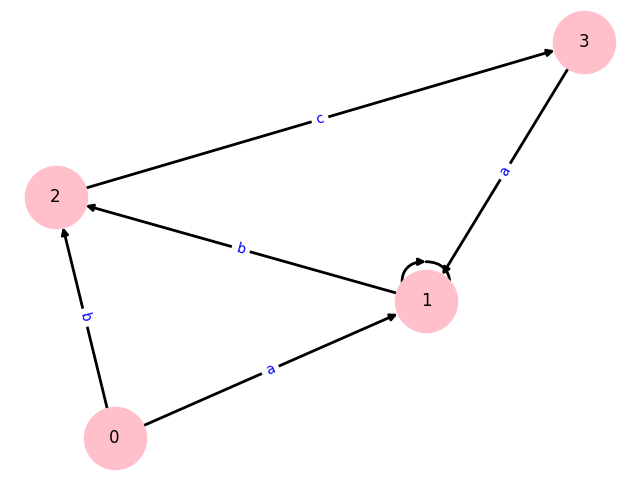
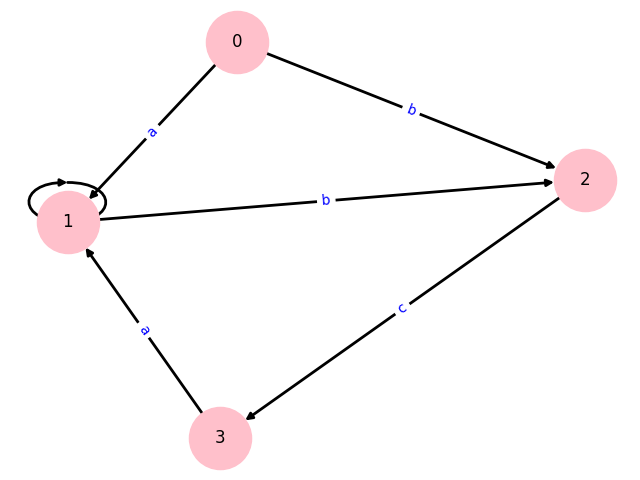
feat: create report

diff --git a/Main/Program.cs b/Main/Program.cs
@@ -14,13 +14,13 @@ public static class Program {
 			new(0, "b", 2)
 		});
 
-	public static readonly List<char> Aphabet     = new(new[] { 'a', 'b', 'c' });
+	public static readonly List<char> Alphabet     = new(new[] { 'a', 'b', 'c' });
 	public const           int        NrOfStates  = 4;
 	public static readonly List<int>  FinalStates = new(new[] { 3 });
 
 	public static void Main() {
 		Grammar grammar = new(
-			Aphabet,
+			Alphabet,
 			NrOfStates,
 			FinalStates,
 			Transitions

diff --git a/Tests/UnitTest.cs b/Tests/UnitTest.cs
@@ -6,7 +6,7 @@ namespace Tests;
 
 public static class UnitTest {
 	private static readonly Grammar Grammar = new(
-		Program.Aphabet, 
+		Program.Alphabet, 
 		Program.NrOfStates, 
 		Program.FinalStates,
 		Program.Transitions

diff --git a/report.md b/report.md
@@ -1,187 +1,216 @@
-# Intro to formal languages. Regular grammars. Finite Automata.
+# Determinism in Finite Automata. Conversion from NDFA 2 DFA. Chomsky Hierarchy.
 
 ### Course: Formal Languages & Finite Automata
+
 ### Author: Dobrojan Alexandru (FAF-212)
 
 ----
 
 ## Theory
-This laboratory is meant to teach me the basics of how formal languages work and how they can be interpreted in code.\
-A formal language (in software engineering context) consists of an alphabet, or a set of allowed symbols, grammar, or a set of rules how to
-composite symbols of alphabet in a meaningful and understandable by a machine way and vocabulary that is a set of valid (allowed) words.\
-Constructing words consists of starting from an initial state (or rule) and using a transition defined by Productions part of grammar to get to
-the next alphabet (terminal) character or one or more syntactic variables (non-terminal symbols). The word is done when no non-terminal symbols
-remain in our string.\
-In order to find matching patterns of a formal language and check if a word or set of words belong to that language, we can use such concept as
-Finite Automata, or Finite Automaton (singular). A Finite Automaton is a structure with members similar to a formal language that serves one reason - 
-to validate an input string. For that, Automaton constructs a graph of states that are unidirectional or bidirectional coupled by transitions,
-transitions are the way of how to represent Grammar productions in graph, and iterates over that graph if the pattern matches. And if some character
-cannot be transitioned by that graph, then the word does not belong to that formal language.
 
+In this laboratory I have to apply my understanding of Non-deterministic Finite Automata and classification of grammars.
+The problem of NFAs is that a computer
+cannot solve explicitly it without some sort of processing of the grammar, I.e. it can get stuck into infinite loops or
+generate wrong output.\
+In order to solve this issue, I have to determine if the given grammar will lead to a non-deterministic Finite Automaton
+and process it so it will become
+a deterministic one. Determining a basic NFA is easy since we can basically check if we have 2 or more transitions with
+the same value but different states,
+and convert these transitions so they will lead to next states and become different.\
+Chomsky classification is a hierarchy of formal grammars used to describe the structure of languages. It was introduced
+by linguist Noam Chomsky in the 1950s and
+categorizes grammars into four types, from the simplest to the most complex: Type-3 (Regular), Type-2 (Context-Free),
+Type-1 (Context-Sensitive),
+and Type-0 (Unrestricted). Each type has a set of rules and restrictions that define the class of languages it can
+generate.
 
 ## Objectives:
 
-1. Understand what a language is and what it needs to have in order to be considered a formal one.
+1. Understand what an automaton is and what it can be used for.
 
-2. Provide the initial setup for the evolving project that you will work on during this semester. I said project because usually at lab works, I encourage/impose students to treat all the labs like stages of development of a whole project. Basically you need to do the following:
+2. Continuing the work in the same repository and the same project, the following need to be added:
+   a. Provide a function in your grammar type/class that could classify the grammar based on Chomsky hierarchy.
 
-   a. Create a local && remote repository of a VCS hosting service (let us all use Github to avoid unnecessary headaches);
+   b. For this you can use the variant from the previous lab.
 
-   b. Choose a programming language, and my suggestion would be to choose one that supports all the main paradigms;
+3. According to your variant number (by universal convention it is register ID), get the finite automaton definition and
+   do the following tasks:
 
-   c. Create a separate folder where you will be keeping the report. This semester I wish I won't see reports alongside source code files, fingers crossed;
+   a. Implement conversion of a finite automaton to a regular grammar.
 
-3. According to your variant number (by universal convention it is register ID), get the grammar definition and do the following tasks:
+   b. Determine whether your FA is deterministic or non-deterministic.
 
-   a. Implement a type/class for your grammar;
+   c. Implement some functionality that would convert an NDFA to a DFA.
 
-   b. Add one function that would generate 5 valid strings from the language expressed by your given grammar;
+   d. Represent the finite automaton graphically (Optional, and can be considered as a __*bonus point*__):
 
-   c. Implement some functionality that would convert and object of type Grammar to one of type Finite Automaton;
+    - You can use external libraries, tools or APIs to generate the figures/diagrams.
 
-   d. For the Finite Automaton, please add a method that checks if an input string can be obtained via the state transition from it;
-
+    - Your program needs to gather and send the data about the automaton and the lib/tool/API return the visual
+      representation.
 
 ## Implementation description
 
-My implementation treats Grammar and Finite Automaton as two data structures that can be mutually converted.\
-Grammar is closer to the mathematical representation by defining its 4 main components - the set of terminal characters, non-terminal characters,
-set of Productions and the starting character. The constructor and converting to Finite Automaton is not important to us.
-GenerateString method would randomly generate a string of the provided language. What is does iterate through each character and apply 
-a random transformation (or one in case there are no more matching) defined in Productions if it is non-terminal. If it has no non-terminal
-symbols, then the string is returned.
+In this laboratory I overhauled the code from previous laboratory so I have a stronger foundation to work with. Now I
+represent each state as a simple object knowing its
+transitions to next states and transitions are represented as (q_n, value) -> q_m, or in my case From: int, To: int,
+Value: string. Verification of NFA is did just
+as mentioned in the theory, checking if a state has 2 or more transitions with the same value but to different states
+and used a heuristic algorithm to transform
+each transition also as mentioned in the theory.
 
-Finite Automaton diagram:\
-![diagram.png](diagram.png)
+Here is the functions that checks if the Automaton is Non-Deterministic and transforms it in-place:
 
-```c#
-public string GenerateString() {
-		var    rand          = new Random();
-		string str           = _S;
-		bool   shouldIterate = true;
+```cs
+ private void _convertToDeterministic() {
+     foreach (State state in _states) {
+         var transitionsToAdd    = new List<KeyValuePair<string, State>>();
+         var transitionsToRemove = new List<KeyValuePair<string, State>>();
 
-		while (shouldIterate) {
-			shouldIterate = false;
+         foreach (var transition1 in state.Transitions) {
+             foreach (var transition2 in state.Transitions) {
+                 if (Equals(transition1, transition2)) {
+                     continue;
+                 }
 
-			foreach (char character in str) {
-				if (_isNonTerminal(character.ToString()) || character == 'S') {
-					shouldIterate = true;
+                 if (transition1.Key == transition2.Key) {
+                     var t = transition2.Value == state ? transition1 : transition2;
+                     foreach (var transition in t.Value.Transitions) {
+                         transitionsToAdd.Add(
+                             new KeyValuePair<string, State>(t.Key + transition.Key, transition.Value)
+                         );
+                     }
 
-					var matches = new List<string>();
+                     transitionsToRemove.Add(t);
+                 }
+             }
+         }
 
-					foreach (var ls in _P) {
-						if (ls[0].Contains(character.ToString())) {
-							matches.Add(ls[1]);
-						}
-					}
+         state.Transitions.AddRange(transitionsToAdd);
 
-					str = str.Replace(
-						character.ToString(),
-						matches[rand.Next(0, matches.Count)]
-					);
-				}
-			}
-		}
-
-		return str;
-	}
+         foreach (var transition in transitionsToRemove) {
+             state.Transitions.Remove(transition);
+         }
+     }
+ }
 ```
-And here is how it used in program
-```c#
-namespace Main;
 
-public static class Program {
-	public static readonly string[] Vn = { "S", "B", "L" };
-	public static readonly string[] Vt = { "a", "b", "c" };
+Here is how I check if string belongs to language:
 
-	public static readonly string[,] P = {
-		{ "S", "aB" },
-		{ "B", "bB" },
-		{ "B", "cL" },
-		{ "L", "cL" },
-		{ "L", "aS" },
-		{ "L", "b" }
-	};
-
-	public static void Main() {
-		Grammar grammar = new(Vn, Vt, P, "S");
-
-		for (int i = 0; i < 20; i++) {
-			Console.WriteLine(grammar.GenerateString());
-		}
-	}
+```cs
+public bool StringBelongToLanguage(string str) {
+   State currentState = _states[0];
+   var   position     = 0;
+   
+   while (position < str.Length) {
+      var newStateFound = false;
+   
+      foreach (var transition in currentState.Transitions) {
+          if (!str[position..].StartsWith(transition.Key)) {
+              continue;
+          }
+   
+          currentState  =  transition.Value;
+          position      += transition.Key.Length;
+          newStateFound =  true;
+          break;
+      }
+   
+      if (!newStateFound) {
+          return false;
+      }
+   }
+   
+   return _finalStates.Contains(currentState);
 }
 ```
-**Result:**\
-![20-strings.png](20-strings.png)
 
-Finite Automaton is similar to how it was described in theory. It consists of a set of states (each state is an instance of State class to make it
-easier to construct graph and iterate it, they can be represented as strings or numbers also), alphabet (terminal symbols), non-terminal symbols and
-the state names (again, not necessary but they'll make our life easier). At constructing time we make the states list that will represent our graph,
-each state knows its previous and next states and its transition and also have a type - start, intermediate or final.
-```c#
-public class FiniteAutomaton {
-	private class State {
-		public enum StateType {
-			Start,
-			Intermediate,
-			Final
-		}
+Here I draw the diagram using a python program that I wrote and invoked it from the Main method of my C# program
 
-		public List<string> Transitions { get; init; } = new();
-		public char         Key         { get; init; }
-		public StateType    Type        { get; init; }
-	}
+```csharp
+// Draws the automaton diagram using a python library and saves it to file
+ private static void DrawGraph() {
+     try {
+         var dataset = Transitions.Aggregate(
+             "",
+             (current, transition) => current + $" {transition.From} {transition.To} {transition.Value}"
+         );
 
-	private readonly List<char>   _alphabet;
-	private readonly List<string> _nonTerminals;
-	private readonly List<State>  _states;
-	private readonly List<char>   _stateNames;
+         ProcessStartInfo info = new() {
+             FileName               = "python3",
+             Arguments              = $"/home/warek/RiderProjects/FLFA-Labs/main.py {dataset}",
+             RedirectStandardOutput = false,
+             RedirectStandardError  = false,
+             RedirectStandardInput  = false,
+             UseShellExecute        = false,
+             CreateNoWindow         = true
+         };
 
-    ...
+         using Process process = new() {
+             StartInfo = info
+         };
+
+         process.Start();
+         process.WaitForExit();
+     }
+     catch (Exception exception) {
+         Console.WriteLine("Something went wrong:");
+         Console.WriteLine(exception.Message);
+     }
+ }
 ```
 
-The method StringBelongToLanguage iterates through the states graph searching if transitions can be made and if each characters belongs to alphabet
-(and each non-terminal to non-terminals also). It is constructing a string meant to store the current string that will have to be identical
-to input string in the end to match.
-```c#
-public bool StringBelongToLanguage(string str) {
-		var    currentState = _findState('S')!;
-		string s            = "";
+Python program invoked
 
-		foreach (char character in str) {
-			if (
-				(currentState.Type == State.StateType.Final && s.Length != str.Length)
-				|| !_isValidCharacter(character)
-			) {
-				return false;
-			}
+```python
+import sys
+import matplotlib.pyplot as plt
+import networkx as nx
 
-			currentState = _nextState(character, currentState);
+G = nx.DiGraph()
+dataset = []
+edge_labels = {}
 
-			if (currentState is null) {
-				return false;
-			}
+for i in range(1, len(sys.argv), 3):
+	dataset += [[sys.argv[i], sys.argv[i + 1], sys.argv[i + 2]]]
 
-			s += character;
-		}
+for data in dataset:
+	FROM = data[0]
+	TO = data[1]
+	VALUE = data[2]
 
-		return currentState.Type == State.StateType.Final;
-	}
+	edge_labels[(FROM, TO)] = VALUE
+	G.add_edge(FROM, TO, label=VALUE)
+
+nx.set_edge_attributes(G, {('A', 'B'): {'color': 'red'}})
+
+pos = nx.spring_layout(G)
+plt.figure()
+nx.draw(
+	G, pos, edge_color='black', width=2,
+	node_size=2000, node_color='pink', alpha=1,
+	labels={node: node for node in G.nodes()}
+)
+
+nx.draw_networkx_edge_labels(
+	G, pos,
+	edge_labels=edge_labels,
+	font_color='blue'
+)
+
+plt.savefig('/home/warek/RiderProjects/FLFA-Labs/plot.png')
+plt.show()
 ```
 
 ## Conclusions / Screenshots / Results
+Converting NFA to DFA in programming turned out not to be that hard, but it is relatively inefficient in terms of performance, since many loops and checks 
+have to be performed.
 
-Data structures and their methods are unit tested in a separate project of the same solution using xUnit unit testing library. Here is an example of a test:\
-![test-1.png](test-1.png)\
-And here is the tests result:\
-![test-2.png](test-2.png)\
+![graphs.webp](graphs.webp)
 
-In conclusion I can say that Grammar and Finite Automata are a strong part in understanding how programming languages work (as well as scripting, markup,
-regular expressions and other DSLs). Constructing a good Grammar and Finite Automaton is a tedious and hard task since it involves 
-strong domain knowledge, programming language knowledge, knowledge of edge cases and lots of testing. I think that programming languages parsers
-work in a similar (but much more performance optimized) way as the implemented above code.
+![plot.png](plot.png)
 
+![graph-screenshot.png](graph-screenshot.png)
 
 ## References
 
